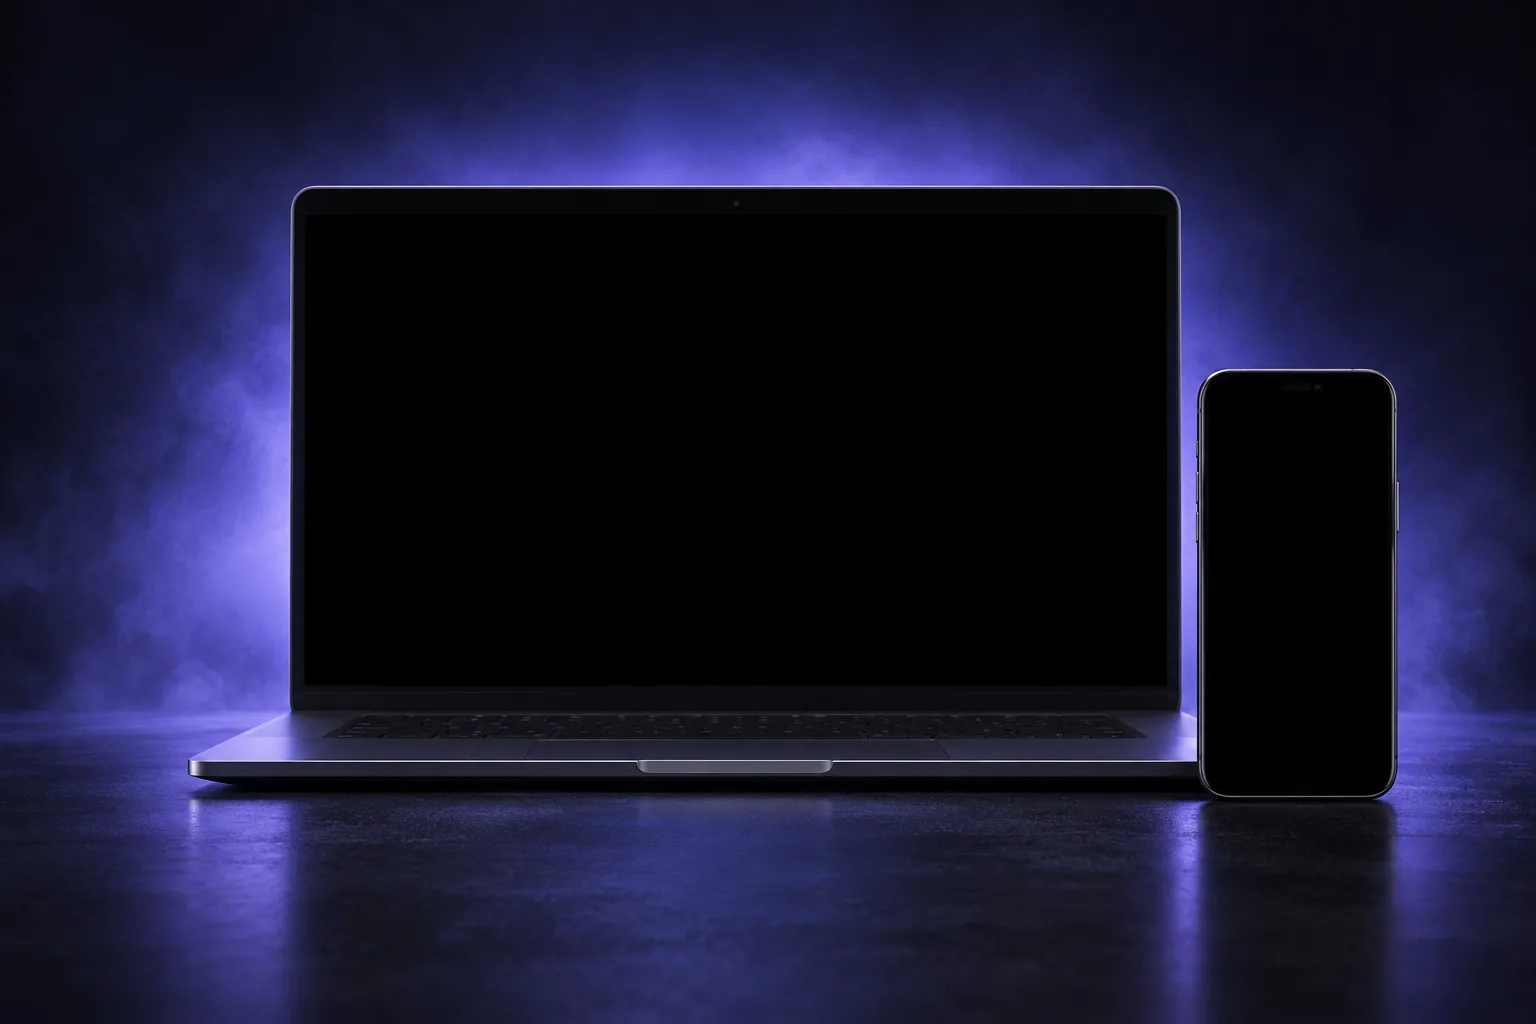
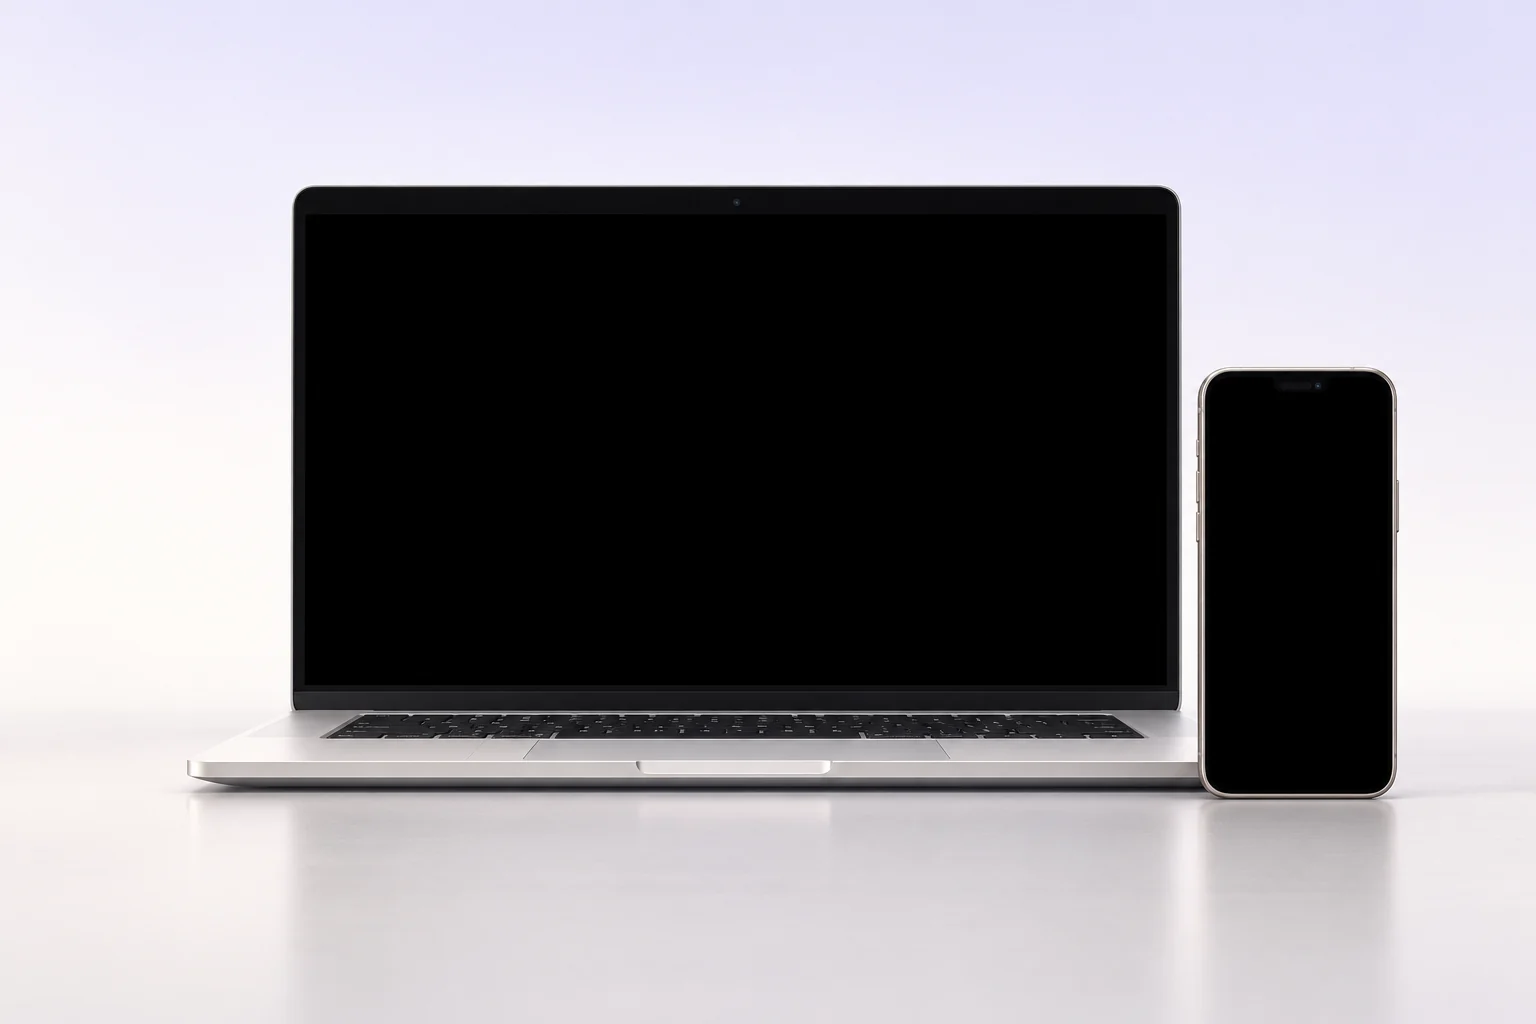
Put the hero devices in a bright studio scene
The dark smoke scene read as a horror poster. The new scene is a light studio set. The laptop shows the Æther Nexus home in indigo, and both screens stay dark so they match.

diff --git a/src/components/hero/parts.tsx b/src/components/hero/parts.tsx
@@ -37,11 +37,12 @@ export function Actions({ className = "" }: { className?: string }) {
 /** Real screens set into a generated device scene: Nexus on the laptop, Pip on the
     phone. The scene's screens are blank; the boxes below are measured on its 1536x1024
     pixels, so a new scene needs new numbers. Private customer data is blurred in
-    HERO_SHOT; the Pip screen runs on test data. */
+    HERO_SHOT; the Pip screen runs on test data. Both screens stay dark in either
+    page theme so they read as one product. */
 export function AppScreen({ className = "", style }: { className?: string; style?: React.CSSProperties }) {
   const { t, i18n } = useTranslation();
   const lang = i18n.language.startsWith("en") ? "en" : "es";
-  const pip = (shot: string, theme: string) => `/work/pip/${shot}-${theme}-${lang}.jpg`;
+  const pip = (shot: string) => `/work/pip/${shot}-dark-${lang}.jpg`;
   return (
     <div className={`relative overflow-hidden rounded-2xl ${className}`} style={style}>
       <img src={HERO_SCENE} alt="" loading="eager" className="block w-full" width={1536} height={1024} />
@@ -53,14 +54,11 @@ export function AppScreen({ className = "", style }: { className?: string; style
         style={{ left: "19.86%", top: "21%", width: "56.12%", height: "46%" }}
       />
       <div
-        className="absolute overflow-hidden bg-[#f6f5fb] dark:bg-[#0b0a10]"
-        style={{ left: "78.52%", top: "36.72%", width: "11.85%", height: "40.82%", borderRadius: "11% / 4.8%" }}
+        className="absolute overflow-hidden bg-[#0b0a10]"
+        style={{ left: "78.52%", top: "36.43%", width: "12.11%", height: "41.41%", borderRadius: "11.8% / 5.2%" }}
       >
         {["money", "pay"].map((shot) => (
-          <div key={shot}>
-            <img src={pip(shot, "light")} alt="" className="block w-full dark:hidden" />
-            <img src={pip(shot, "dark")} alt="" className="hidden w-full dark:block" />
-          </div>
+          <img key={shot} src={pip(shot)} alt="" className="block w-full" />
         ))}
       </div>
     </div>

diff --git a/src/content/offer.ts b/src/content/offer.ts
@@ -54,7 +54,7 @@ export const SYSTEMS: ReadonlyArray<{
   { slug: "panaderia", upcoming: true },
 ];
 
-export const HERO_SHOT = "/work/tavros-2.png";
+export const HERO_SHOT = "/work/aether-1.png";
 export const HERO_SCENE = "/work/hero-scene.webp";
 
 /**
